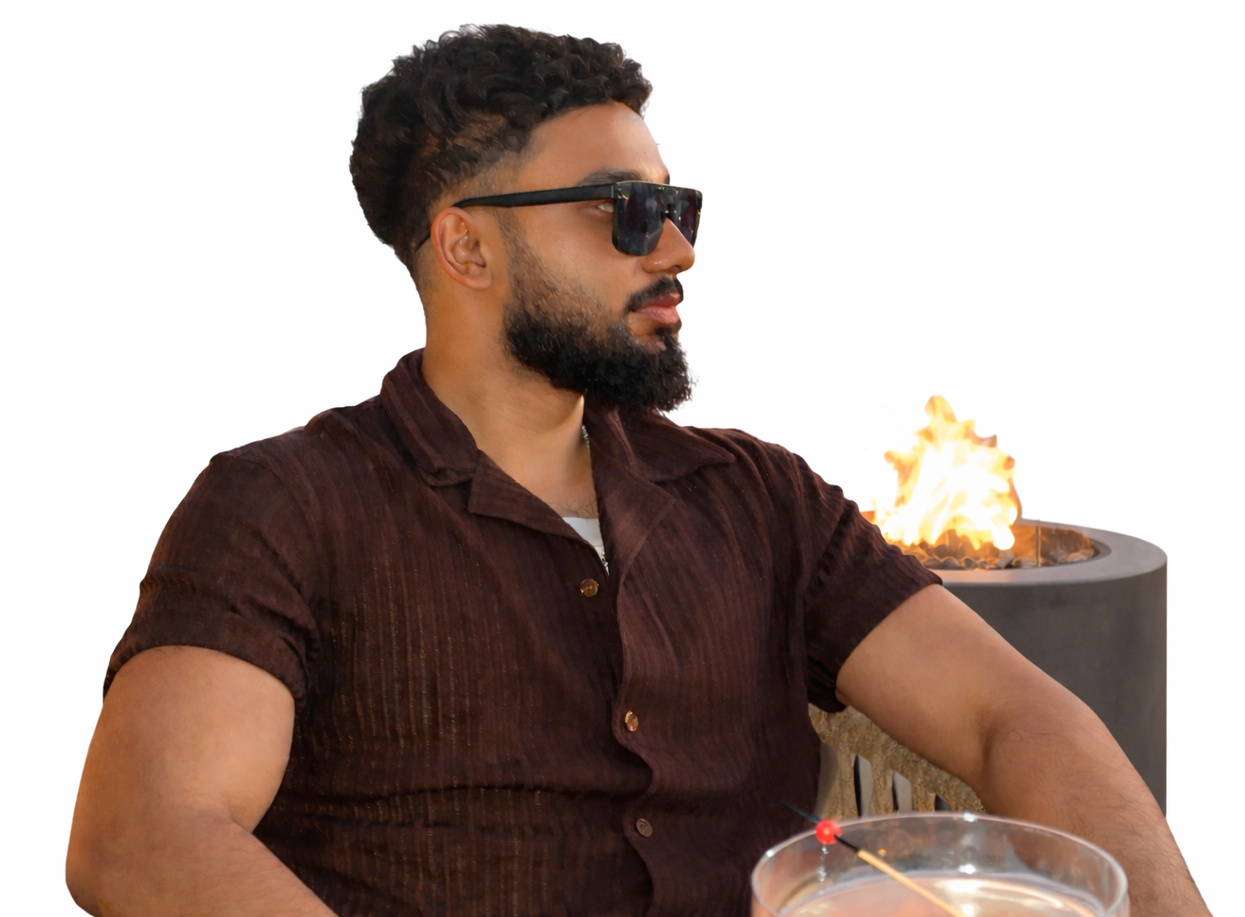
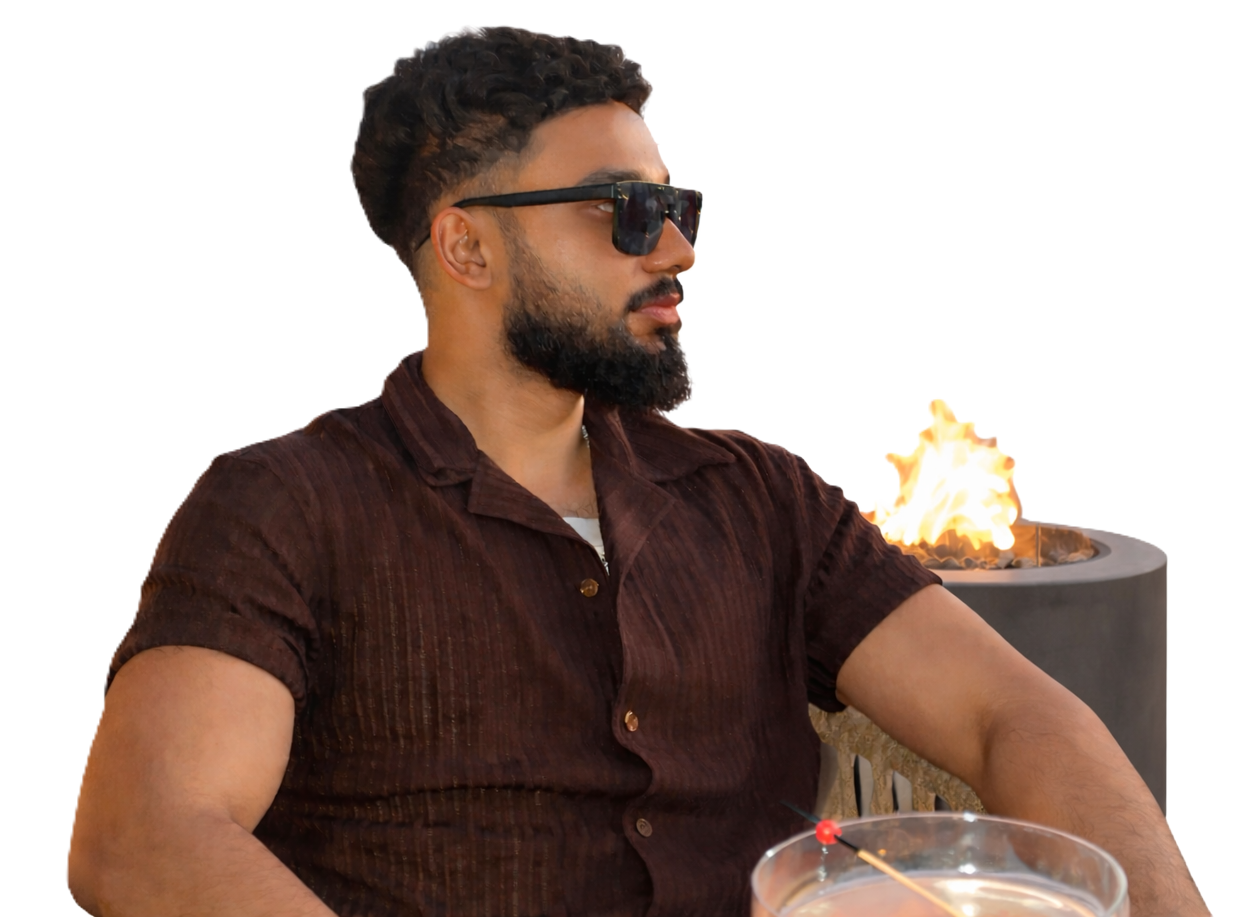
v.1.2 Home - scroll fade in added to main content.

diff --git a/frontend/src/components/navbar/Navbar.jsx b/frontend/src/components/navbar/Navbar.jsx
@@ -27,7 +27,7 @@ function Navbar() {
 
   return (
       <nav className={`
-          fixed top-0 left-0
+          top-0 left-0
           bg-black w-full
           grid grid-cols-3 
           items-center 
@@ -40,10 +40,11 @@ function Navbar() {
   
           <Logo to="/" src="/my_logo.png" alt="my_logo" />
 
-        <ul className="
-        flex justify-center 
-        gap-1 sm:gap-2 lg:gap-4 
-        list-none">
+        <ul 
+        className="
+          flex justify-center 
+          gap-1 sm:gap-2 lg:gap-4 
+          list-none">
           <li><Button to="/cv">CV</Button></li>
           <li><Button to="/portfolio">portfolio</Button></li>
           <li><Button to="/about">about</Button></li>

diff --git a/frontend/src/pages/Home.jsx b/frontend/src/pages/Home.jsx
@@ -10,22 +10,23 @@ function Home() {
           max-w-7xl
           mx-auto
           w-full
+          animate-fadeIn
         "
       >
         <img 
-          className="h-30"
+          className="-translate-y-6 translate-x-7 h-30"
           src="cybersecurity_button.png" 
           alt="cybersecurity" 
         />
 
         <img 
-          className="h-[480px]"
+          className="-translate-y-20 -translate-x-7 h-137.5"
           src="img_of_me2.png" 
           alt="hero_img" 
         />
 
         <img 
-          className="pl-6 translate-y-5 h-30" 
+          className="translate-y-2 -translate-x-11 h-30" 
           src="coder_button.png" 
           alt="coder_button"
         />

diff --git a/frontend/src/App.jsx b/frontend/src/App.jsx
@@ -6,11 +6,14 @@ import Home from './pages/Home'
 import About from './pages/About'
 import Portfolio from './pages/Portfolio'
 import CV from "./pages/CV"
+import ScrollFadeIn from './components/ScrollFadeIn'
 
 function App() {
   return (
     <>
       <Navbar/>
+
+      <ScrollFadeIn>
       <main className="
             min-h-screen w-full max-w-7xl mx-auto 
             pt-24 px-4 sm:px-6 lg:px-8">
@@ -21,7 +24,7 @@ function App() {
           <Route path='/cv' element={<CV />}/>
         </Routes>
       </main>
-    
+    </ScrollFadeIn>
     </>
   )
 }

diff --git a/frontend/tailwind.config.js b/frontend/tailwind.config.js
@@ -10,6 +10,15 @@ export default {
         montserrat: ['Montserrat', 'sans-serif'],
         outfit: ['Outfit', 'sans-serif'],
       },
+      keyframes: {
+        fadeIn: {
+          "0%": {opacity: "0"},
+          "100%": {opacity: "1"}
+        }
+      },
+      animation: {
+        fadeIn: "fadeIn 1.5 ease-in"
+      }
     },
   },
   plugins: [],

diff --git a/frontend/src/css/Index.css b/frontend/src/css/Index.css
@@ -1,2 +1,15 @@
 @import url('https://fonts.googleapis.com/css2?family=Montserrat:ital,wght@0,100..900;1,100..900&family=Outfit:wght@100..900&display=swap');
 @import "tailwindcss";
+
+@theme {
+  --animate-fade-in: fadeIn 1s ease-out forwards;
+  @keyframes fadeIn {
+    0% {
+      opacity: 0;
+    }
+    100% {
+      opacity: 1;
+    }
+    
+  }
+}

diff --git a/frontend/src/components/navbar/Button.jsx b/frontend/src/components/navbar/Button.jsx
@@ -9,7 +9,7 @@ function Button({ to, children }) {
         flex
         font-montserratfont-thin
         text-base sm:text-xl lg:text-2xl
-        text-white 
+        text-gray-300 
         px-2 sm:px3 lg:px-4  
         transition-colors duration-500
         hover:text-gray-400 hover:opacity-80
